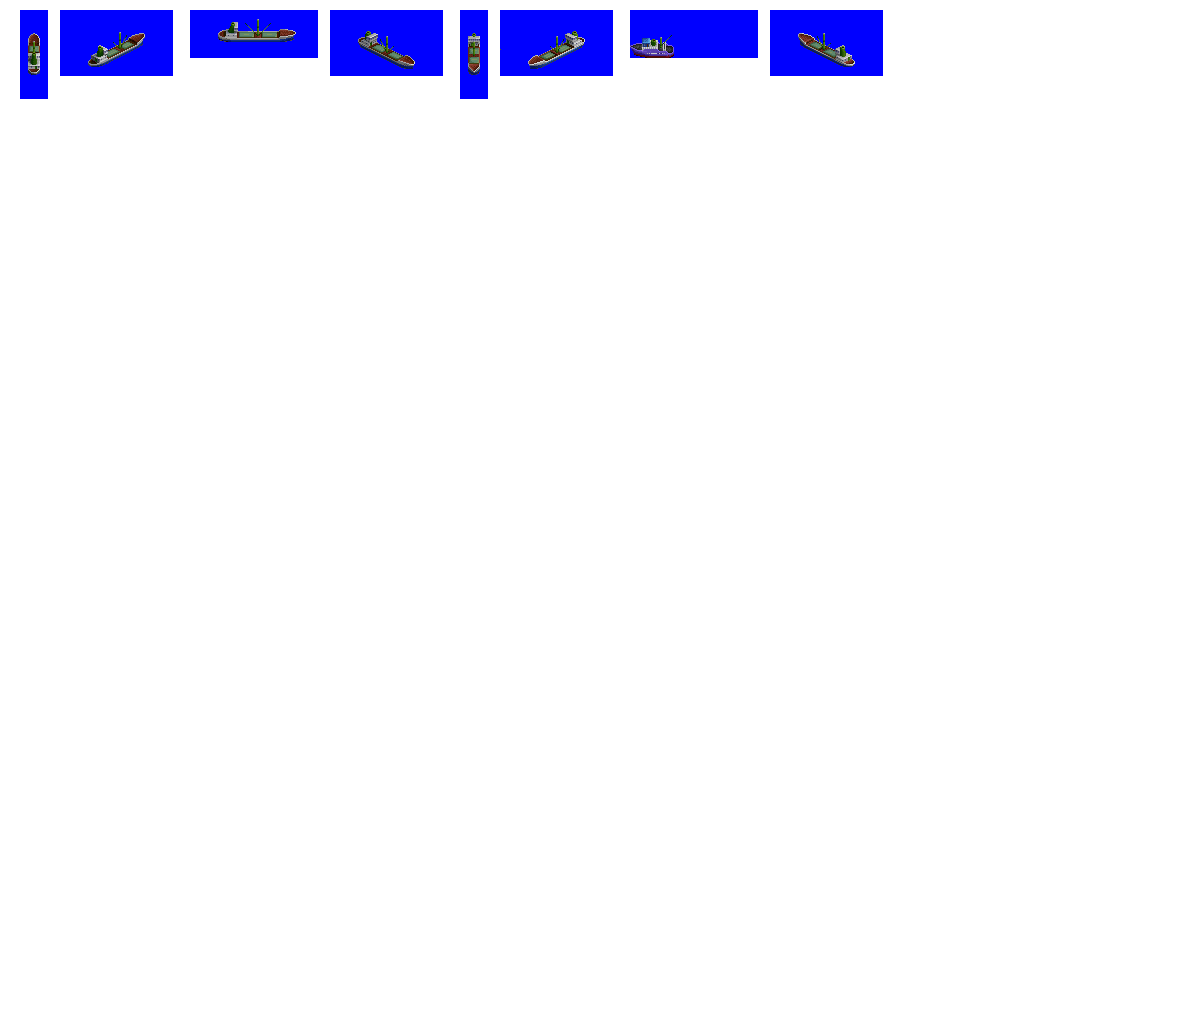
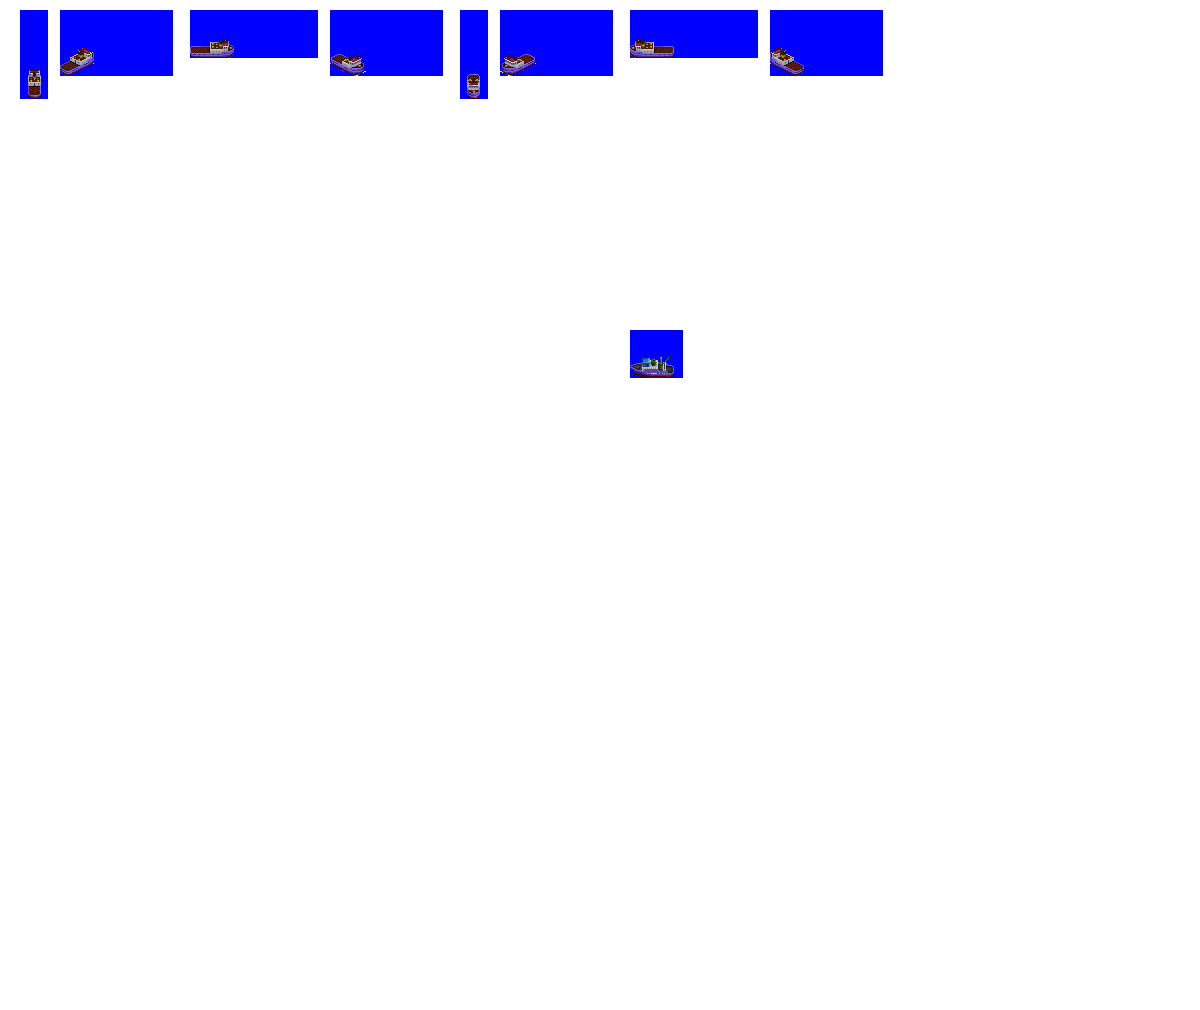
Change: WIP on trawlers

diff --git a/src/ship.py b/src/ship.py
@@ -866,18 +866,9 @@ class Trawler(Ship):
         self.label_refits_disallowed = []
         self.default_cargos = ["FISH"]  # no need for fallbacks, single refit
         # Graphics configuration
-        hull_recolour_map = {
-            136: 146,
-            137: 147,
-            138: 148,
-            139: 149,
-            140: 150,
-            141: 151,
-            142: 152,
-            143: 153,
-        }
         self.gestalt_graphics = GestaltGraphicsSimpleColourRemaps(
-            hull_recolour_map=hull_recolour_map
+            hull_recolour_map=graphics_constants.hull_recolour_dark_blue,
+            apply_hull_recolours_to_ship=True,
         )
 
 

diff --git a/src/gestalt_graphics/graphics_constants.py b/src/gestalt_graphics/graphics_constants.py
@@ -43,6 +43,16 @@ hull_recolour_silver = {
     142: 22,
     143: 23,
 }
+hull_recolour_dark_blue = {
+    136: 144,
+    137: 145,
+    138: 146,
+    139: 147,
+    140: 148,
+    141: 149,
+    142: 150,
+    143: 151,
+}
 
 # used because it's nicer to draw with dark red as magic colour, but it's not safe as a magic colour, so it's remapped to a spare purple range
 house_make_magic_red_safe_recolour_map = {

diff --git a/src/vehicles/trawlers.py b/src/vehicles/trawlers.py
@@ -7,7 +7,7 @@ def main():
         name="Newfoundland",
         gen=3,
         subtype="A",
-        hull="TempHouseNone",
+        hull="ShipHouseForward",
         effect_type="EFFECT_SPRITE_STEAM",
     )
 
